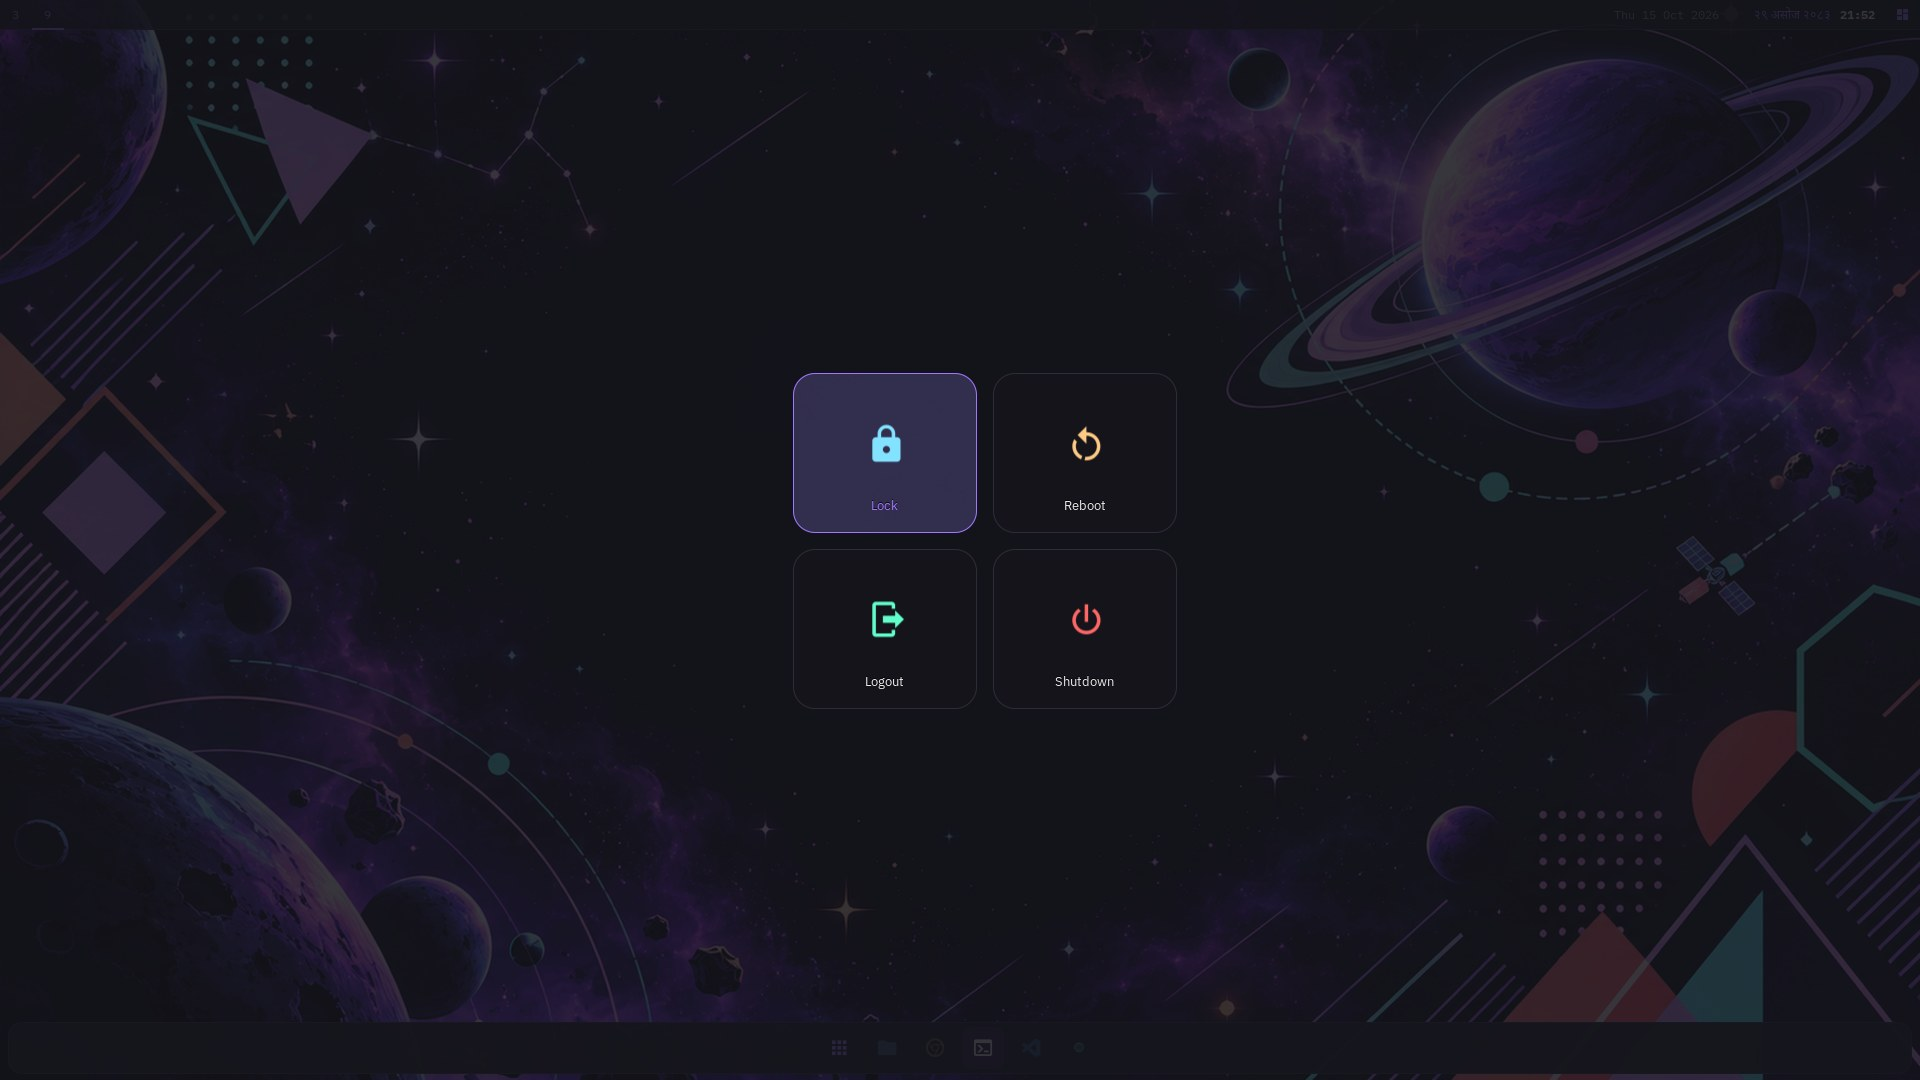
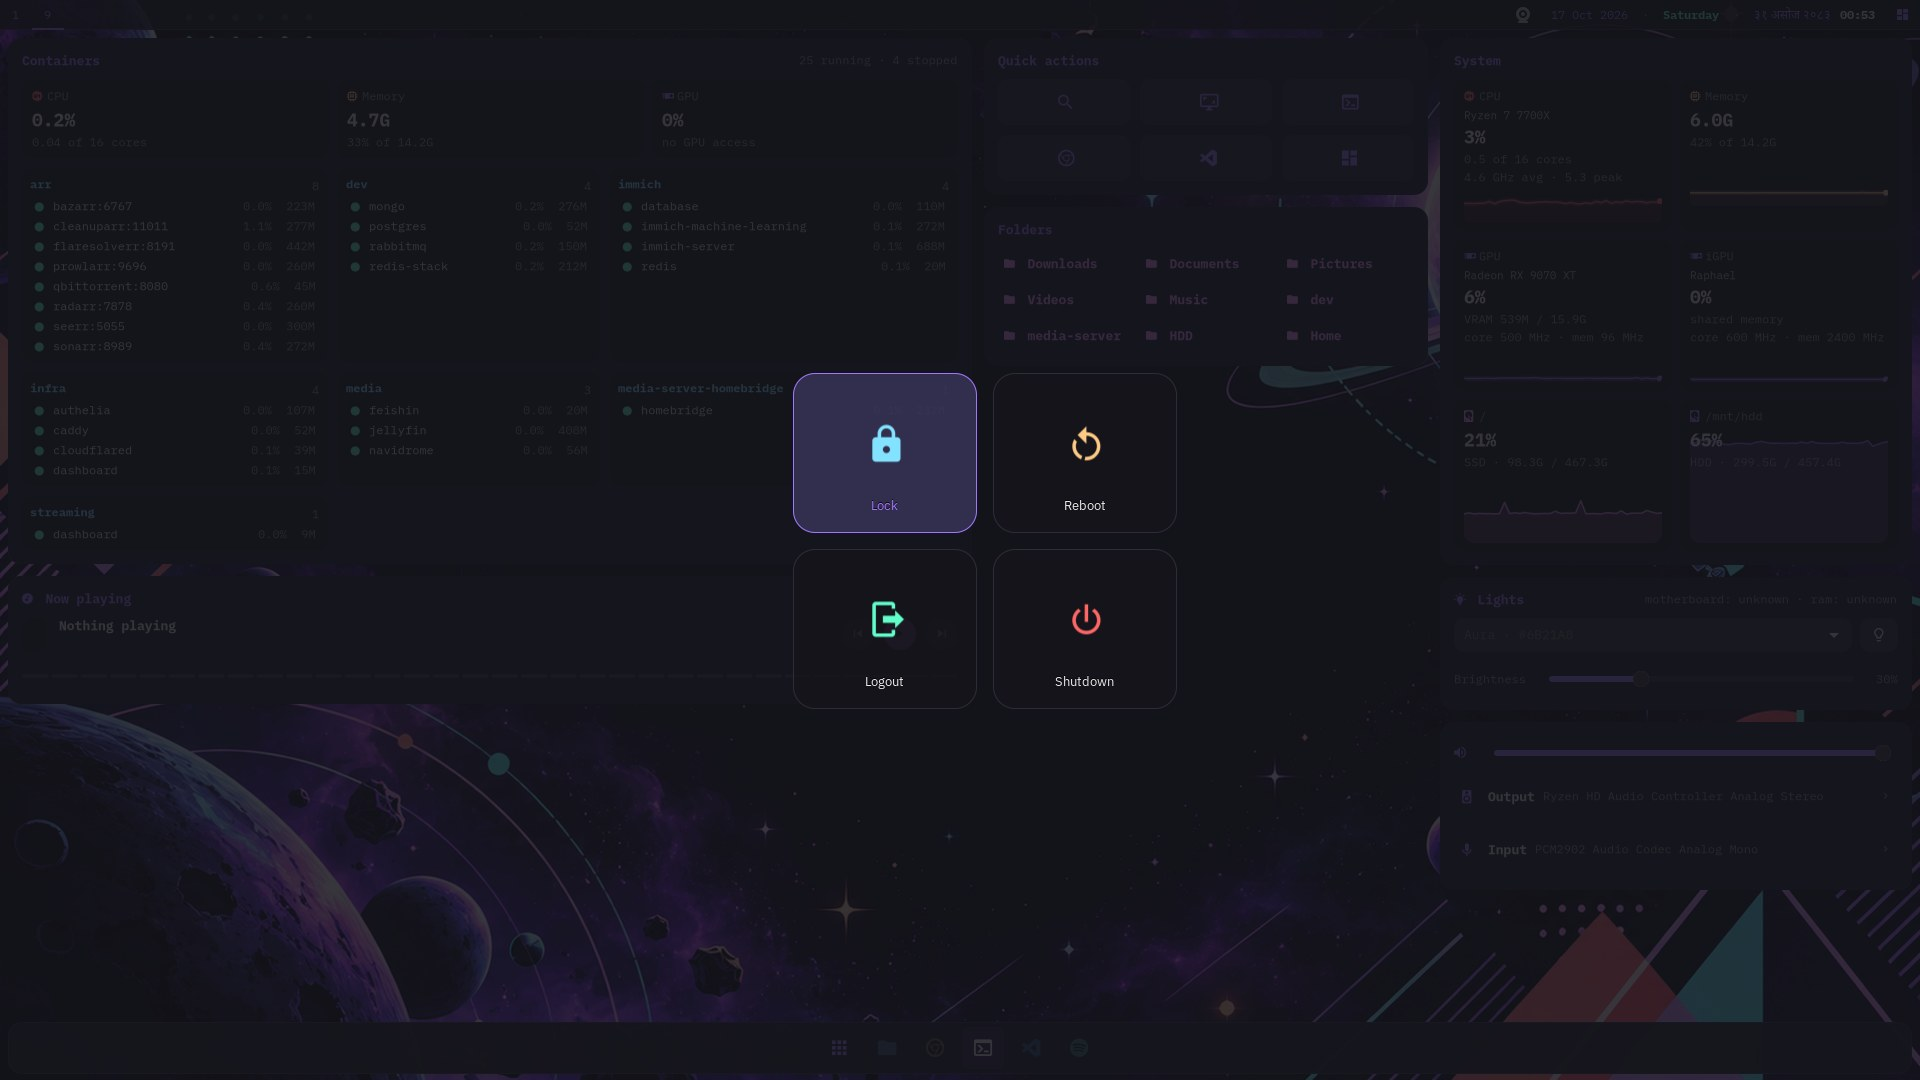
docs: README matches the current desktop; refresh terminal and power menu shots
Waybar top bar and dock (aura-bar modules), mako, the full-screen dashboard
and home-screen calendar, dimmed (not blurred) power menu, and the GDM
script undoing a WhiteSur overwrite.

diff --git a/README.md b/README.md
@@ -4,20 +4,22 @@ Ubuntu 26.04 · GNOME 50 + Hyprland 0.53 · **Aura Dark**
 
 ![Desktop](docs/screenshots/desktop.jpg)
 
-The home screen: aura-panel's cards on the desktop layer (they sit under windows), the aura-bar dock, and the top bar with the English · weekday · Nepali date.
+The home screen: aura-panel's calendar card on the desktop layer (it sits under windows), the Waybar dock at the bottom, and the Waybar top bar with the minimized-window stash and the English · weekday · Nepali date. The dock tiles, clock and stash are drawn by `aura-bar`, a small Rust helper behind those Waybar modules.
 
-## Side panel
+## Dashboard
 
-**aura-panel** (Super+D): power with confirmation, primary monitor, Ethernet / Wi-Fi / Bluetooth,
-notification history and Do Not Disturb. The same panel's home-screen cards (Docker stacks, now playing
-with a seekable spectrum bar, live CPU / memory / GPU / disk graphs, lights, sound) sit on the desktop.
+**aura-panel** (Super+D): a full-screen overlay over the dimmed desktop. The cards fill the page (Docker stacks,
+now playing with a seekable spectrum bar, live CPU / memory / GPU / disk graphs, quick actions, folders, lights),
+and the controls column on the right has power with confirmation, primary monitor, Ethernet / Wi-Fi / Bluetooth,
+sound (volume, output and input device), notification history and Do Not Disturb.
 
-![Side panel](docs/screenshots/panel.jpg)
+![Dashboard](docs/screenshots/panel.jpg)
 
 ## Calendar
 
-Click the top-bar clock: a month view in **Gregorian** or **नेपाली** (Bikram Sambat) with the other
+A card on the home screen: a month view in **Gregorian** or **नेपाली** (Bikram Sambat) with the other
 calendar's day under each date, previous/next month, Today, and Saturdays (Nepal's weekly holiday) in red.
+"Today" moves on its own at midnight.
 
 ![Calendar](docs/screenshots/calendar.jpg)
 
@@ -36,7 +38,7 @@ Update with `scripts/update-vicinae.sh` — it runs the official installer when 
 
 ## Power menu
 
-**wlogout** (Super+Esc): a 2 × 2 grid of Aura cards over the blurred wallpaper.
+**wlogout** (Super+Esc or Super+Shift+E): a 2 × 2 grid of Aura cards over the dimmed desktop.
 
 ![Power menu](docs/screenshots/powermenu.jpg)
 
@@ -57,7 +59,7 @@ scripts/gnome.sh         # GNOME settings + extensions
 scripts/gdm-theme.sh     # Aura login screen (sudo)
 scripts/refind-theme.sh  # rEFInd config + Aura boot theme (sudo)
 
-# Hyprland bar and side panel (Rust)
+# Hyprland bar helper and side panel (Rust)
 cargo install --path .config/hypr/aura-bar   --root ~/.local
 cargo install --path .config/hypr/aura-panel --root ~/.local
 ```
@@ -77,8 +79,8 @@ Run `./install.sh --dry-run` first to see what it will do.
 | Shell | zsh + oh-my-zsh, starship prompt |
 | Editor | Neovim with the official Aura port |
 | GNOME | libadwaita recolored with CSS variables (no forced theme), Papirus-Dark, autohide dock |
-| Hyprland | 1px accent borders, 6px radius, no window blur, aura-bar dock, aura-panel sidebar, vicinae, hyprlock/hypridle, wlogout |
-| Login | Aura GDM theme built on Ubuntu's Yaru |
+| Hyprland | 1px accent borders, 6px radius, no window blur, Waybar top bar + dock (aura-bar modules), aura-panel dashboard + home-screen calendar, mako notifications, vicinae, hyprlock/hypridle, wlogout |
+| Login | Aura GDM theme built on Ubuntu's Yaru (`scripts/gdm-theme.sh`; it also undoes a WhiteSur overwrite of Yaru) |
 | Boot | rEFInd with a custom Aura theme |
 
 ## Keys
@@ -89,7 +91,7 @@ Run `./install.sh --dry-run` first to see what it will do.
 | Super+Enter | Ghostty |
 | Super+Space | Launcher (fuzzel) |
 | Alt+Space | vicinae |
-| Super+D / Super+N | Side panel |
+| Super+D / Super+N | Dashboard |
 | Super+Alt+V | Clipboard history (in vicinae) |
 | Super+1…5 | Go to workspace |
 | Super+Shift+1…5 | Move window to workspace |
